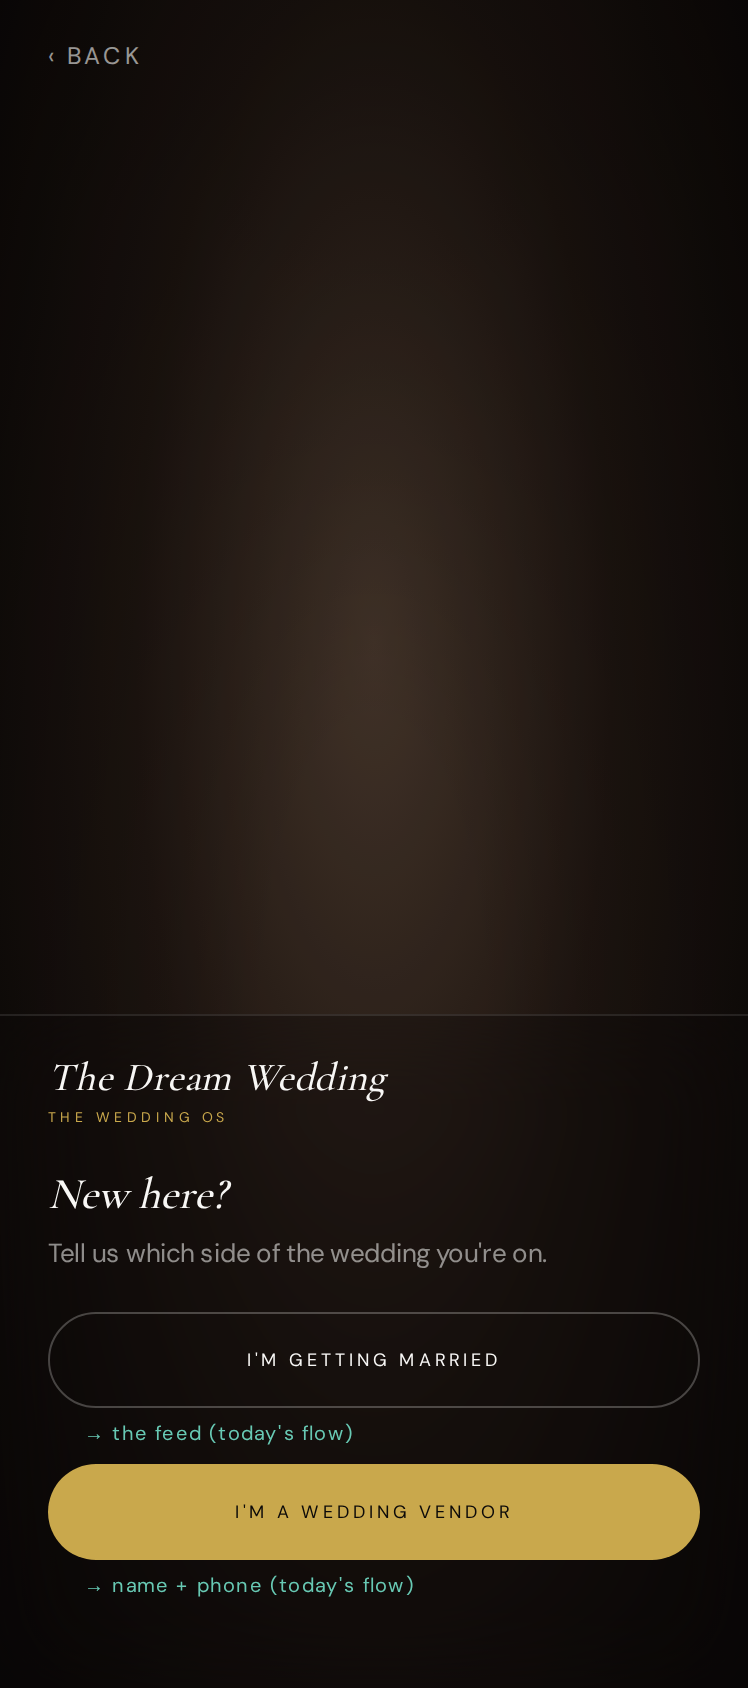
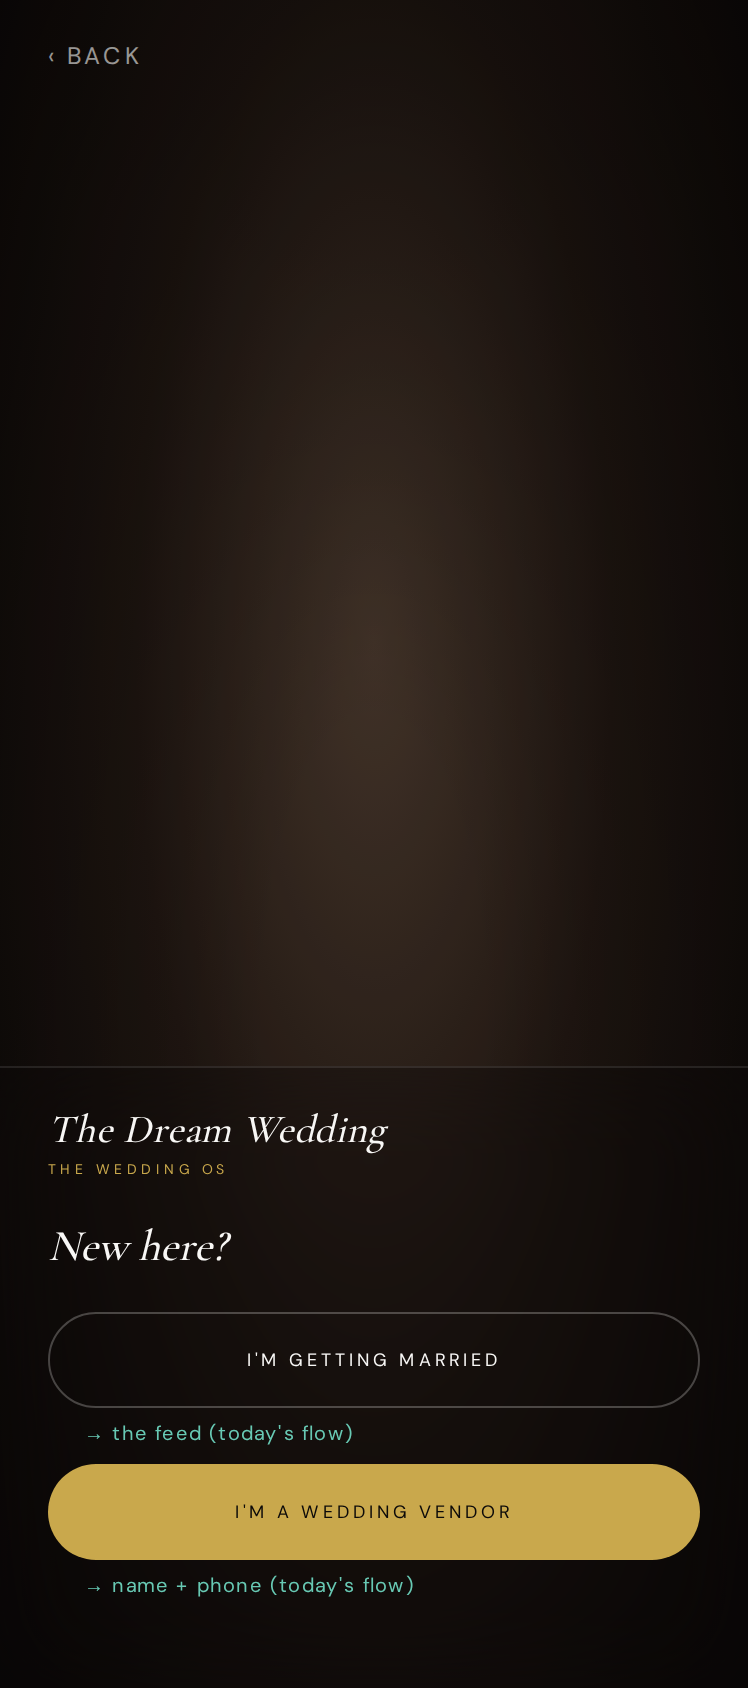
P7.1: veto ruled — S5 and S17 struck, frames re-shot [founder 2026-09-04]

diff --git a/docs/mocks/flip-beta-mock.html b/docs/mocks/flip-beta-mock.html
@@ -116,7 +116,6 @@ body.solo .wl,body.solo .ld{box-shadow:none;border-radius:0}
   <div class="ld-brand">The Dream Wedding</div>
   <div class="ld-os">The Wedding OS</div>
   <div class="ld-head">New here?</div>
-  <div class="ld-sub">Tell us which side of the wedding you're on.</div>
   <div class="ld-doors">
    <div class="ld-btn ghost">I'm getting married</div>
    <div class="ld-anno">→ the feed (today's flow)</div>
@@ -177,7 +176,6 @@ body.solo .wl,body.solo .ld{box-shadow:none;border-radius:0}
   <div class="wl-field"><div class="wl-flabel">What went wrong?</div><div class="wl-input"><span class="ph">Tell us what you expected and what you saw instead.</span></div></div>
   <div class="wl-send">Send on WhatsApp</div>
   <div class="wl-cancel">Cancel</div>
-  <div class="wl-shnote">Opens WhatsApp with the room, build and your note filled in. Nothing is sent until you press send there.</div>
  </div>
 </div>
 </div>

diff --git a/docs/mocks/P71_VETO_SHEET.md b/docs/mocks/P71_VETO_SHEET.md
@@ -4,7 +4,7 @@
 **File** `docs/mocks/flip-beta-mock.html` — one self-contained file, fonts embedded, the theme token line carried **byte-identical** from the D-1 file and re-checked against `lib/worklist/theme.ts` at `28fd649` (`--atelier-accent-text` #68C9B4 / #0D6A5A). Mocks pin nothing.
 **Frames** `L1-landing` `L1-chooser` `P7-badge` `P7-report` · **captures 6** (see §3 for why not 8). A build charter's §2 names *`docs/mocks/flip-beta-mock.html@<hash>`, frames …* — never the file alone.
 
-**How to read this.** One YES/NO per string. Strings ship by delegation unless struck (charter P7.1(c)). Unanswered rows are HELD, not shipped — silence is not a yes on a contested string.
+**RULED — founder 2026-09-04.** S5 and S17 STRUCK; S1–S4, S6–S16, S18 ship AS PROPOSED. The frames below are re-shot without the two struck lines. This file is the sheet of record; no row is open.
 
 ---
 
@@ -18,7 +18,7 @@
 | S2 | door 2 | `I'm a wedding vendor` | **unchanged** | becomes the vendor **sign-in** door (`signin_phone`, role Maker preset → `/vendor/pin-login` when pin set) |
 | S3 | the small line | `Already a member? Sign in` | **`New here? Sign up`** | the verb carries the gold, as today |
 | S4 | chooser heading | — (new surface) | **`New here?`** | Cormorant italic, the landing's own face |
-| S5 | chooser sub-line | — (new) | **`Tell us which side of the wedding you're on.`** | strike to ship the heading alone |
+| S5 | chooser sub-line | — (new) | ~~`Tell us which side of the wedding you're on.`~~ | **STRUCK — founder 2026-09-04.** The chooser ships heading + two doors + Back. |
 | S6 | chooser door 1 | — | `I'm getting married` | byte-identical to S1; lands on **the feed** (today's couple sign-up, F-P71.3 accepted as-is; F-39.75 filed) |
 | S7 | chooser door 2 | — | `I'm a wedding vendor` | byte-identical to S2; lands on `join_phone` (name + phone) |
 | S8 | chooser back | — | **`‹ Back`** | the ONE way home; a second `Already a member? Sign in` on the chooser was drawn, then struck in this seat — two homes for one path, and the very line F-P71.1 retired |
@@ -42,7 +42,7 @@ The two teal annotations under the chooser's buttons (`→ the feed (today's flo
 | S14 | placeholder | — | **`Tell us what you expected and what you saw instead.`** | |
 | S15 | send | — | **`Send on WhatsApp`** | honest verb: the tap opens WhatsApp with the text prefilled; WhatsApp's send is the send |
 | S16 | cancel | — | `Cancel` | reused byte |
-| S17 | sheet note | — | **`Opens WhatsApp with the room, build and your note filled in. Nothing is sent until you press send there.`** | strike if S15 says enough |
+| S17 | sheet note | — | ~~`Opens WhatsApp with the room, build and your note filled in. Nothing is sent until you press send there.`~~ | **STRUCK — founder 2026-09-04.** S15's verb carries it. |
 | S18 | the composed message (vendor never edits it; it lands on `+919888294440`) | — | **`Issue · <Room> · <build>`** newline **`<the vendor's text>`** | founder's choice of prefix; the build hash rides so the reply thread is greppable |
 
 **Register check:** no `Bride`, no money glyph, no persona name in any row. Copy law holds.
